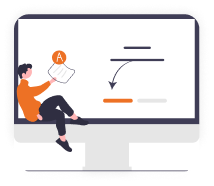
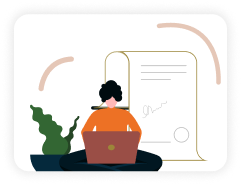
agent-onboarding page fix updated

diff --git a/src/app/(frontend)/(public)/agent-onboarding/page.tsx b/src/app/(frontend)/(public)/agent-onboarding/page.tsx
@@ -148,10 +148,10 @@ function page({}: Props) {
       },
     ],
     sectionRight: {
-      avatar: '/assets/board-of-directors/abrar-anwar.jpg',
-      name: 'Khondoker Khalil Ahamed',
+      avatar: '/assets/agent-onboarding-life.jpg',
+      name: 'Tarafder Mohammad Fahim',
       quote:
-        'Every day, I learn something new, try to make a real impact on clients’ lives, and feel valued as a team member of Shanta Asset Management.',
+        'Every day, I learn something new, try to make a real impact on clients’ lives, and feel valued as a team member of Shanta Life.',
     },
   }
 
@@ -173,6 +173,14 @@ function page({}: Props) {
     {
       image: '/assets/role4.svg',
       title: 'Learn, Earn, Grow',
+    },
+    {
+      image: '/assets/role5.png',
+      title: 'Take Charge of your career',
+    },
+    {
+      image: '/assets/role4.svg',
+      title: 'Help secure lives',
     },
   ]
   const visionData = [

diff --git a/src/components/custom/agent-onboarding/RolesCardList.tsx b/src/components/custom/agent-onboarding/RolesCardList.tsx
@@ -42,13 +42,13 @@ function RolesCardList({ onboardingRoleData }: Props) {
     <Carousel
       
       opts={{
-        align: 'start',
+        align: 'start'
       }}
-      className="w-full"
+       className="w-full"
       setApi={setCarouselApi} // 👈 capture carousel API
       plugins={[
         Autoplay({
-          delay: 5000,
+          delay: 3000,
         }),
       ]}
     >

diff --git a/src/components/custom/career/CareerProcessingFlow.tsx b/src/components/custom/career/CareerProcessingFlow.tsx
@@ -15,7 +15,7 @@ const processData = [
     title: 'PRELIMINARY DISCUSSION',
   },
   {
-    img: '/assets/process6.png',
+    img: '/assets/process3.png',
     title: 'ASSESSMENT CENTER',
   },
   {
@@ -23,7 +23,7 @@ const processData = [
     title: 'FINAL INTERVIEW',
   },
   {
-    img: '/assets/process7.png',
+    img: '/assets/process5.png',
     title: 'ON BOARDING',
   },
 ]
